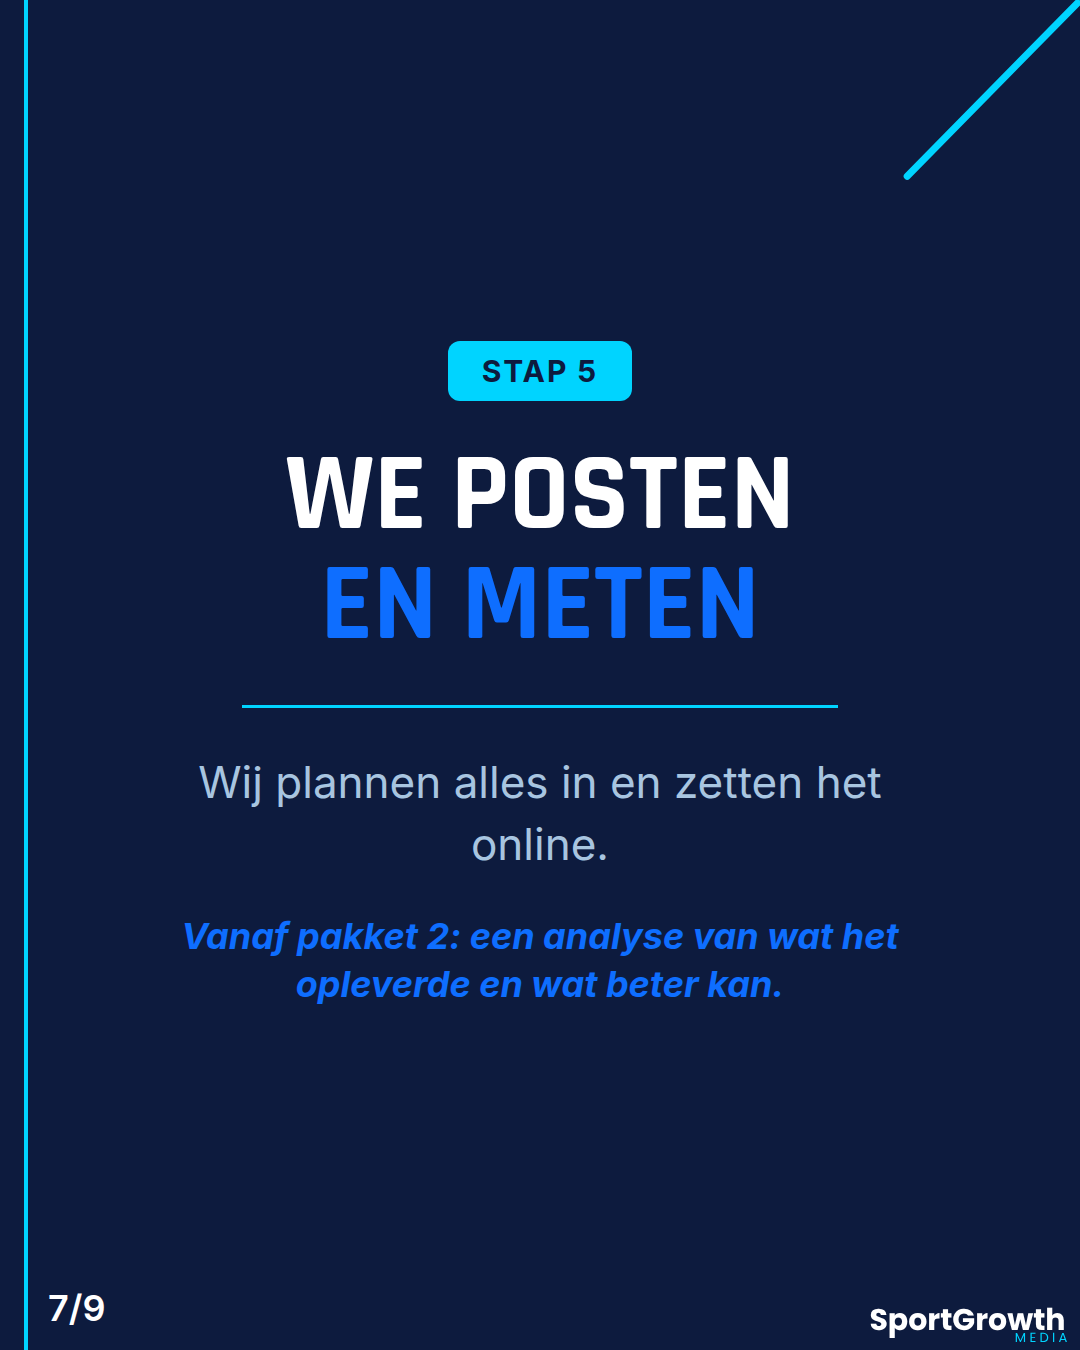
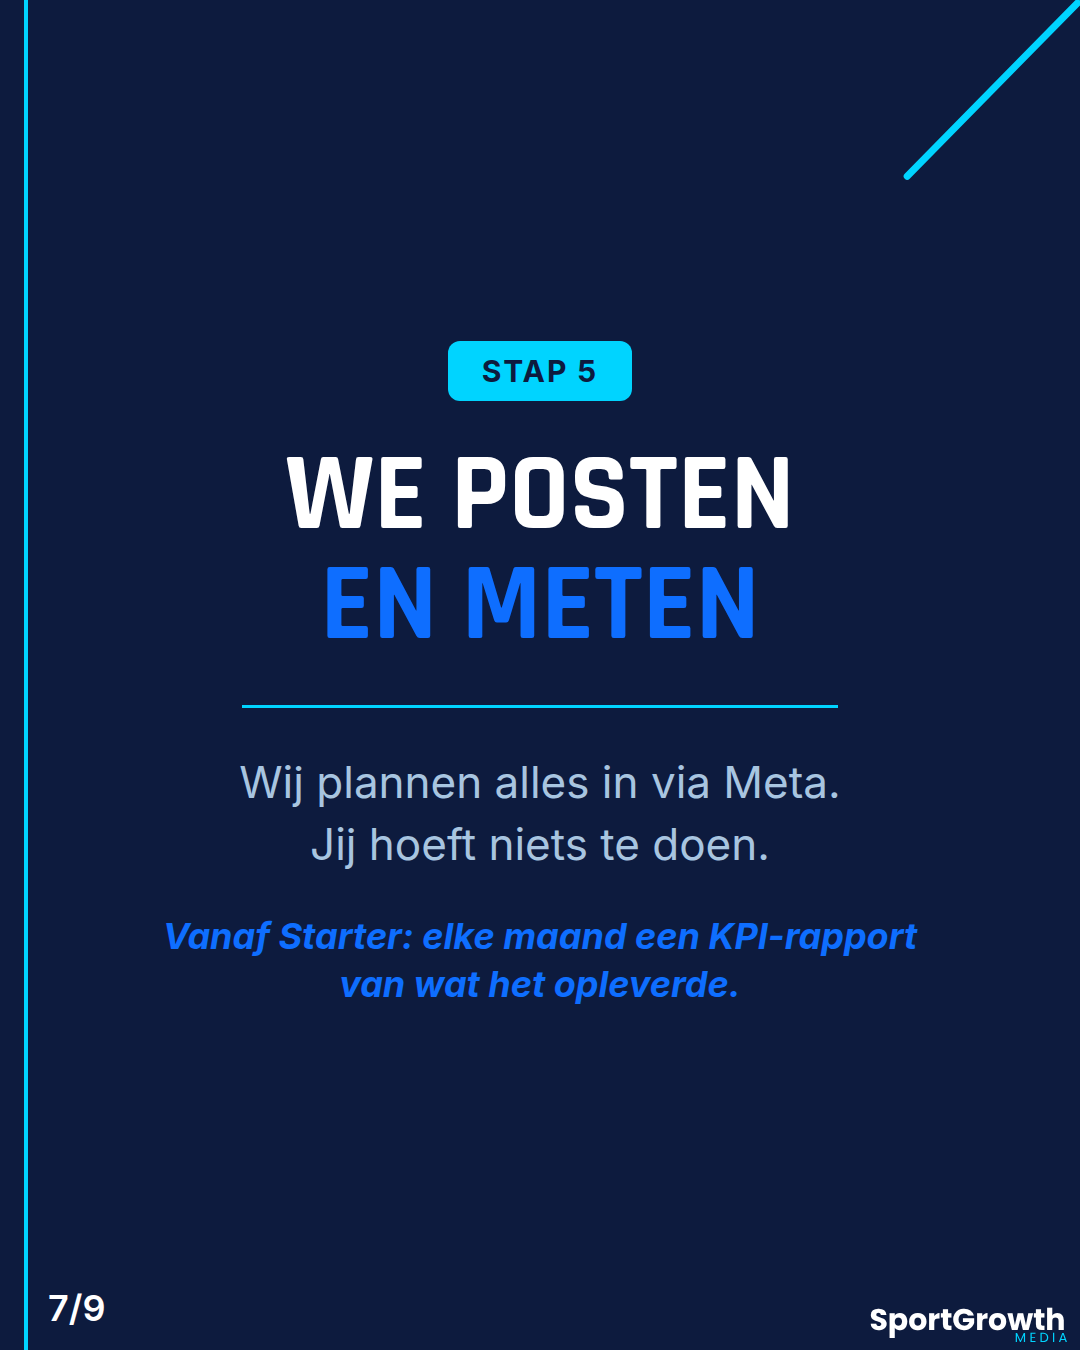
Add package details to voice.md; name Starter on carousel slide 7
Claude-Session: https://claude.ai/code/session_01QkSWZzWLTduRQtPp2zathG

Changed region(s): [[0.1833, 0.56, 0.825, 0.6533], [0.1528, 0.6844, 0.8556, 0.7467]]

diff --git a/instagram/voice.md b/instagram/voice.md
@@ -11,7 +11,10 @@ Stemprofiel van @sportgrowth_media. Elke `ig-*` skill leest dit bestand.
 - **Handle:** @sportgrowth_media
 - **What I do, in one sentence:** Ik maak en plan de Instagram-content voor padel- en tennisclubs, zij keuren alleen goed.
 - **Who I am talking to:** bestuursleden, clubverantwoordelijken en vrijwilligers van padel- en tennisclubs in Vlaanderen. Mensen met weinig tijd, die hun club graag zien groeien maar geen marketeer zijn.
-- **What I sell:** social media-pakketten voor clubs (MINI, pakket 2, pakket 3). Het aantal posts per maand hangt af van het pakket. Analyse vanaf pakket 2. De club levert beeld aan; een shoot ter plaatse kan tegen meerprijs. {{prijzen of prijsvork}}
+- **What I sell:** social media-beheer voor clubs. De club levert beeld aan; een shoot ter plaatse kan tegen meerprijs.
+  - **Mini**: €249/maand, eerste 3 maanden vast, daarna maandelijks opzegbaar. 6 posts/maand, stories 3x/week, visuele huisstijl, captions & hashtags, inplannen via Meta, maandelijkse check-in.
+  - **Starter** (meest gekozen): €399/maand, min. 3 maanden. 10 posts/maand, stories 5x/week, 1 reel/maand, visuele huisstijl, captions & hashtags, inplannen via Meta, KPI-rapport per maand, WhatsApp-support.
+  - **Growth**: €599/maand, min. 6 maanden. 16 posts/maand, dagelijkse stories, 3 reels/maand, visuele huisstijl, captions & hashtags, inplannen via Meta, uitgebreid KPI-rapport, kwartaalstrategie, prioriteit WhatsApp.
 - **Language:** Vlaams, verzorgd en professioneel (geen dialect). "Je/jij" tegen de lezer, "wij" voor het bedrijf, "ik" voor persoonlijke verhalen. Vlaamse woorden waar ze natuurlijk zijn: terreinen, lidgeld, inschrijvingen, jeugdwerking, clubhuis.
 
 ## What I sound like
